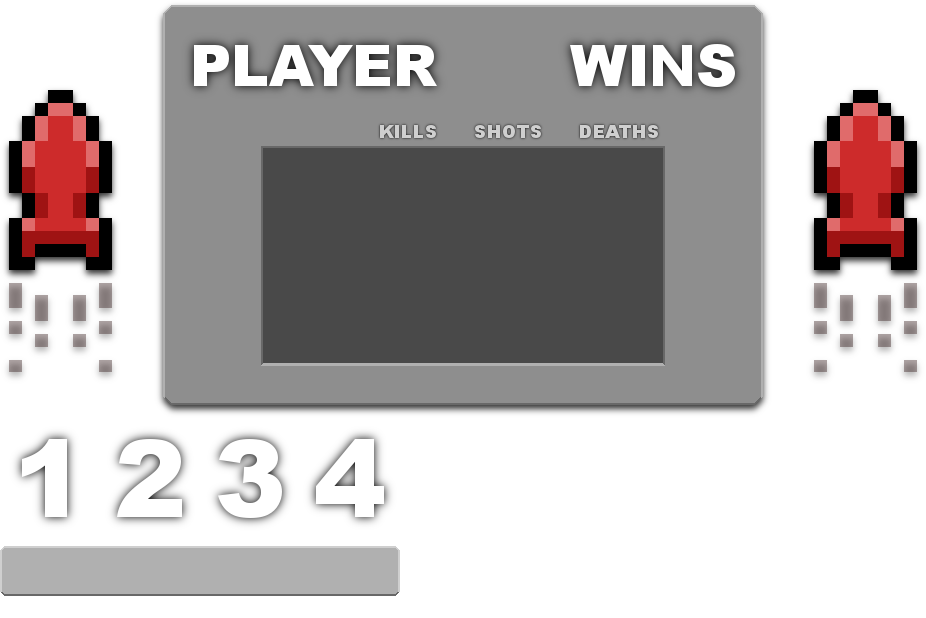
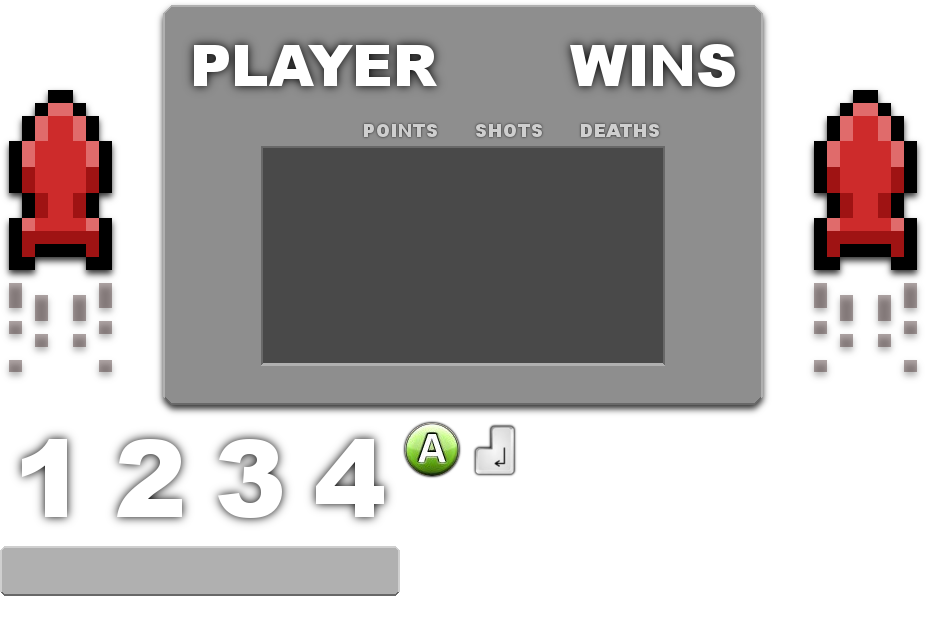
end game screen made

diff --git a/BattleSiteE/BattleSiteE/BattleSiteE/GameScreens/EndGameScreen.cs b/BattleSiteE/BattleSiteE/BattleSiteE/GameScreens/EndGameScreen.cs
@@ -6,17 +6,30 @@ using BattleSiteE.Manager;
 using Microsoft.Xna.Framework.Content;
 using Microsoft.Xna.Framework.Graphics;
 using Microsoft.Xna.Framework;
+using BattleSiteE.GameObjects.Managers;
 
 namespace BattleSiteE.GameScreens
 {
-    class EndGameScreen : GameScreen
+    public class EndGameScreen : GameScreen
     {
 
         ContentManager contentMan;
 
         Rectangle pixel;
         Texture2D plainBlack;
+        Texture2D screenTex;
+        SpriteFont stufffont;
 
+        private static Rectangle screen = new Rectangle(0, 0, 926, 418);
+        private static Rectangle subblock = new Rectangle(0, 546, 400, 50);
+        private static Rectangle[] pnums = new Rectangle[]{
+            new Rectangle(0,418,100,128),
+            new Rectangle(100,418,100,128),
+            new Rectangle(200,418,100,128),
+            new Rectangle(300,418,100,128)
+        };
+
+        private static Rectangle abutton = (Environment.OSVersion.Platform == PlatformID.Win32NT)?new Rectangle(400, 418, 64, 64):new Rectangle(464, 418, 64, 64);
         public EndGameScreen()
         {
             TransitionOnTime = TimeSpan.FromSeconds(0.1);
@@ -32,6 +45,10 @@ namespace BattleSiteE.GameScreens
             pixel = new Rectangle(0, 0, 1, 1);
             plainBlack = new Texture2D(ScreenManager.GraphicsDevice, 1, 1);
             plainBlack.SetData<Color>(new Color[] { new Color(248, 248, 181) });
+
+            screenTex = contentMan.Load<Texture2D>("endgame");
+
+            stufffont = contentMan.Load<SpriteFont>("menufont");
             
         }
 
@@ -50,15 +67,45 @@ namespace BattleSiteE.GameScreens
             //background
             sb.Draw(plainBlack, new Rectangle(0, 0, 1280, 720), pixel, Color.White * TransitionAlpha * 0.6f);
 
+            Rectangle panelR = new Rectangle((1280 - 926) / 2, (720 - 418) / 2, 926, 418);
 
-                        
+            sb.Draw(screenTex, panelR, screen, Color.White);
+
+            int tx = panelR.X + 263;
+            int ty = panelR.Y + 148;
+
+            int[] ids = ScoreManager.Instance.getOrderedIds();
+
+            foreach (int id in ids)
+            {
+                Color c = TankManager.tankColours[id];
+                sb.Draw(screenTex, new Rectangle(tx, ty, 400, 50), subblock, c);
+                sb.DrawString(stufffont, (id+1) + ":", new Vector2(tx + 10, ty + 10), Color.White);
+                sb.DrawString(stufffont, ScoreManager.Instance.getPoints(id) + "" , new Vector2(tx + 125, ty + 10), Color.White);
+                sb.DrawString(stufffont, ScoreManager.Instance.getShots(id) + "", new Vector2(tx + 218, ty + 10), Color.White);
+                sb.DrawString(stufffont, ScoreManager.Instance.getDeaths(id) + "", new Vector2(tx + 325, ty + 10), Color.White);
+                
+
+                ty += 52;
+            }
+
+            sb.Draw(screenTex, new Rectangle(panelR.X + 456, panelR.Y+5, 100, 128), pnums[ids[0]], Color.White);
+
+            sb.Draw(screenTex, new Rectangle(panelR.X + 685, panelR.Y + 340, 64, 64), abutton, Color.White);
 
             sb.End();
         }
 
         public override void HandleInput()
         {
-            
+            if (ScreenManager.InputController.isKeyDown(GameKey.SELECT, null))
+            {
+                ScreenManager.ExitAll();
+                MusicManager.Instance.stop(3000);
+                ScreenManager.AddScreen(new MenuBackgroundScreen());
+                ScreenManager.AddScreen(new MainMenuScreen());
+                return;
+            }
         }
 
     }

diff --git a/BattleSiteE/BattleSiteE/BattleSiteE/GameObjects/Managers/ScoreManager.cs b/BattleSiteE/BattleSiteE/BattleSiteE/GameObjects/Managers/ScoreManager.cs
@@ -70,6 +70,7 @@ namespace BattleSiteE.GameObjects.Managers
             points = new int[] { 0, 0, 0, 0 };
             deaths = new int[] { 0, 0, 0, 0 };
             shotsfired = new int[] { 0, 0, 0, 0 };
+            winned = false;
         }
 
         public void setInGameTexture(Texture2D t)
@@ -178,5 +179,22 @@ namespace BattleSiteE.GameObjects.Managers
             this.winningScore = winningScore;
         }
 
+        public int[] getOrderedIds()
+        {
+            return orderedids;
+        }
+
+        public int getPoints(int index)
+        {
+            return points[index];
+        }
+        public int getShots(int index)
+        {
+            return shotsfired[index];
+        }
+        public int getDeaths(int index)
+        {
+            return deaths[index];
+        }
     }
 }

diff --git a/BattleSiteE/BattleSiteE/BattleSiteE/GameObjects/Managers/TankManager.cs b/BattleSiteE/BattleSiteE/BattleSiteE/GameObjects/Managers/TankManager.cs
@@ -21,7 +21,13 @@ namespace BattleSiteE.GameObjects.Managers
             }
         }
 
-
+        public static Color[] tankColours = new Color[] { 
+            Color.LightSteelBlue,
+            new Color(1.0f, 0.5f, 0.5f),
+            Color.LightGreen,
+            new Color(1.0f, 1.0f, 0.5f)
+        };
+        
         Texture2D tanktexture;
         List<TankBase> controlledTanks = new List<TankBase>();
 

diff --git a/BattleSiteE/BattleSiteE/BattleSiteE/GameObjects/Managers/WallManager.cs b/BattleSiteE/BattleSiteE/BattleSiteE/GameObjects/Managers/WallManager.cs
@@ -256,7 +256,6 @@ namespace BattleSiteE.GameObjects.Managers
 
         internal void clear()
         {
-            instance = new WallManager();
         }
     }
 }
